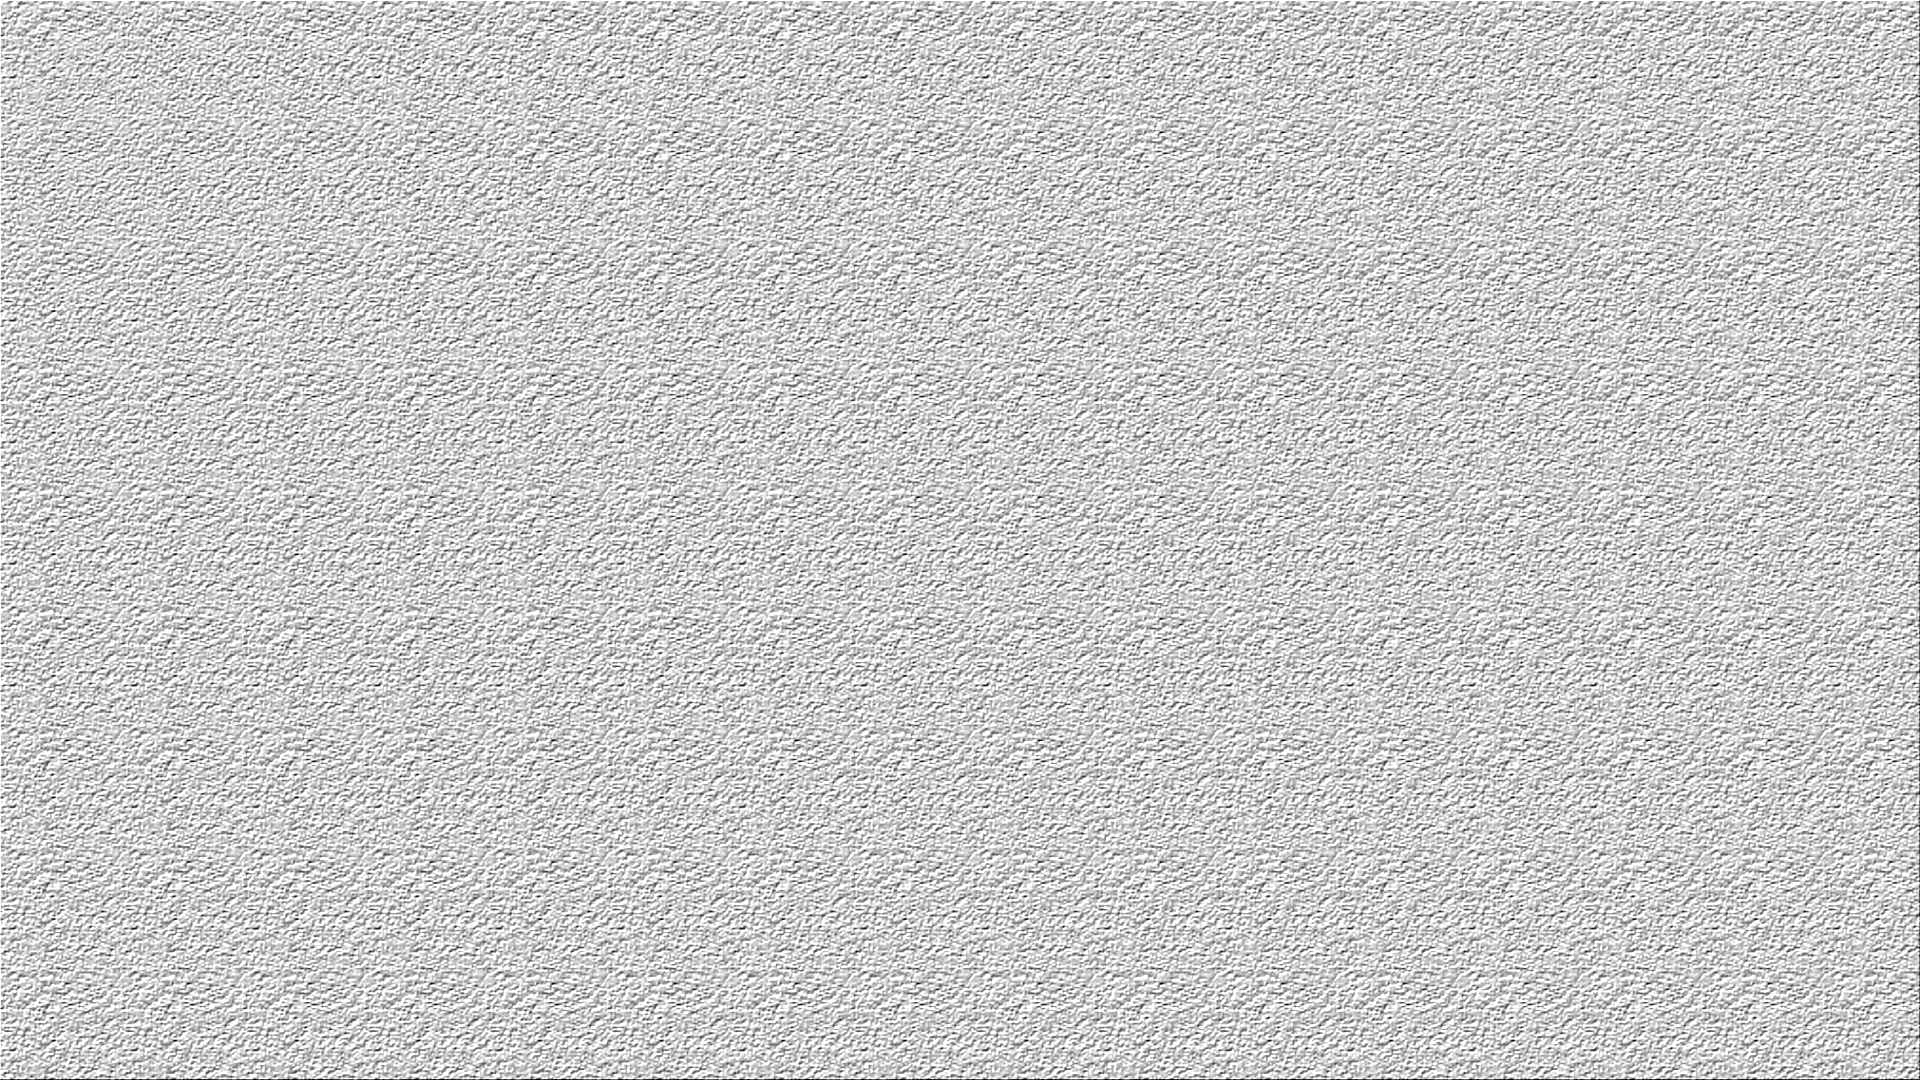
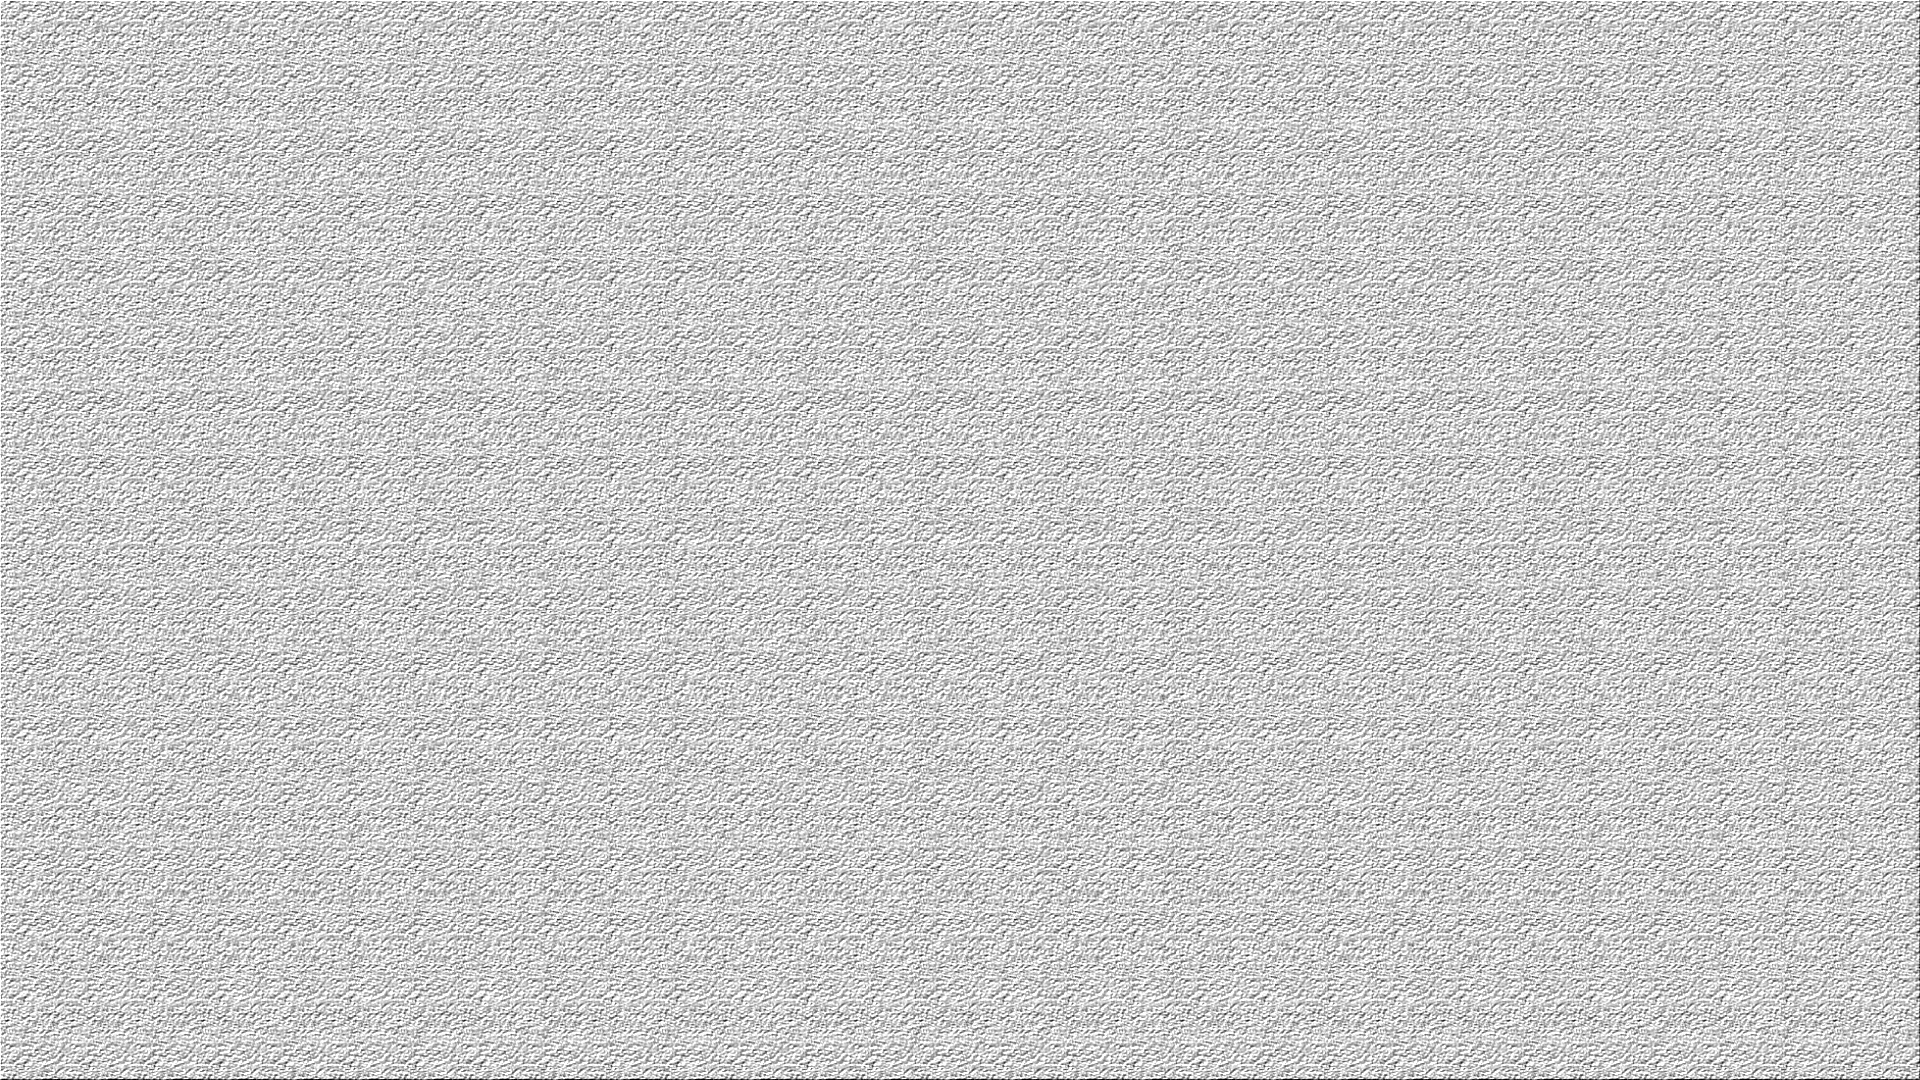
Háttér I guess

diff --git a/kox/koxapp/static/css/main.css b/kox/koxapp/static/css/main.css
@@ -3,7 +3,13 @@
     padding: 0;
 }
 
-body{ min-height:100vh; margin:0; position:relative; background-image: url("/kox/koxapp/static/img/háttér.jpg");}
+body{ 
+	min-height:100vh;
+	margin:0;
+	position:relative;
+	background: url(../img/háttér.jpg);
+	background-repeat: repeat;
+}
 header{ min-height:50px; background:black; }
 footer{ background:black; }
 
